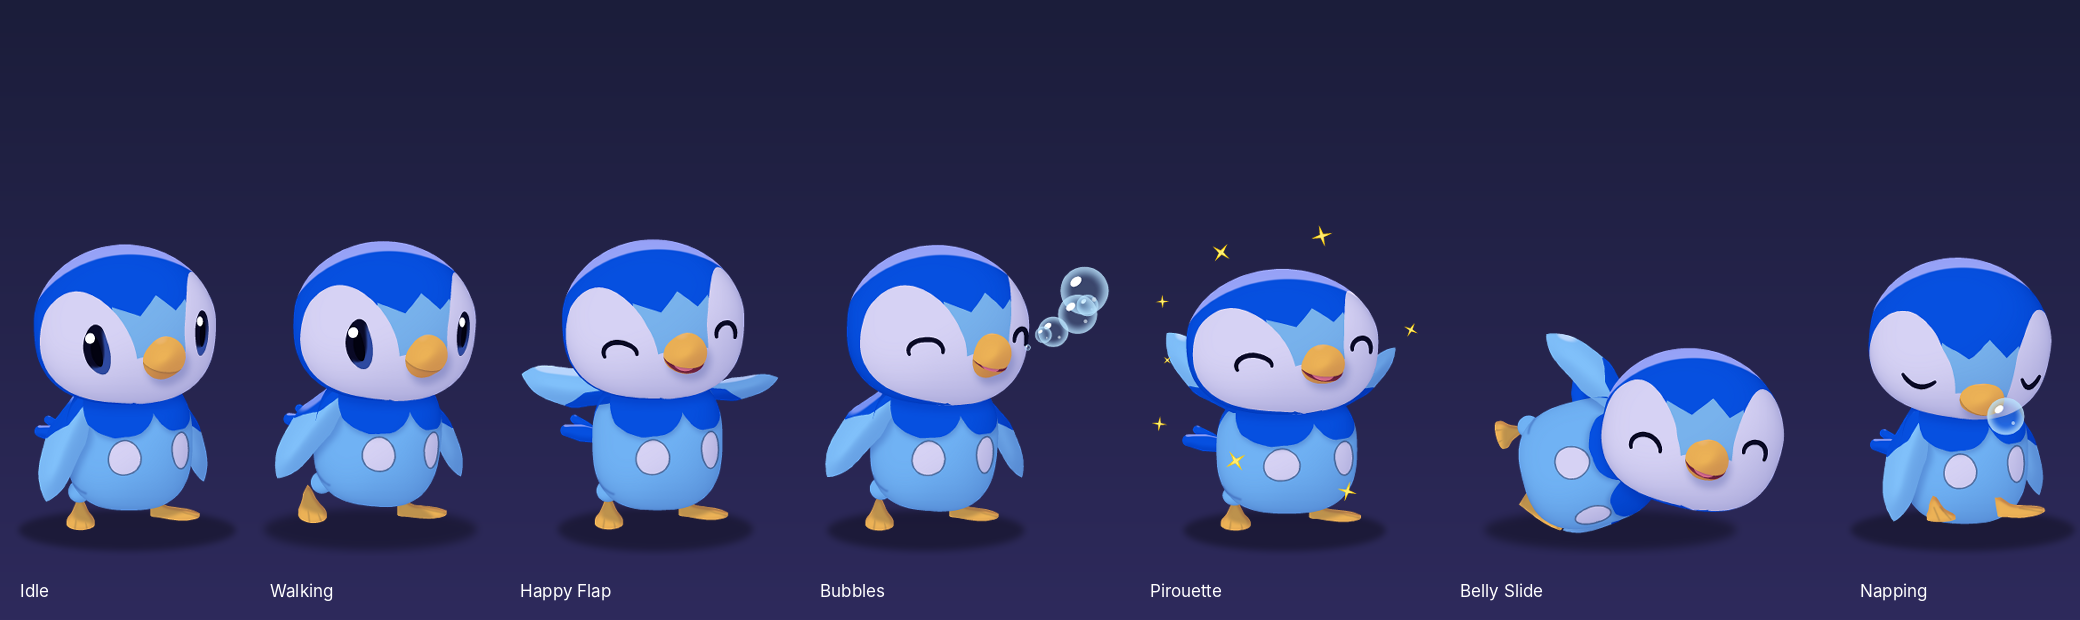
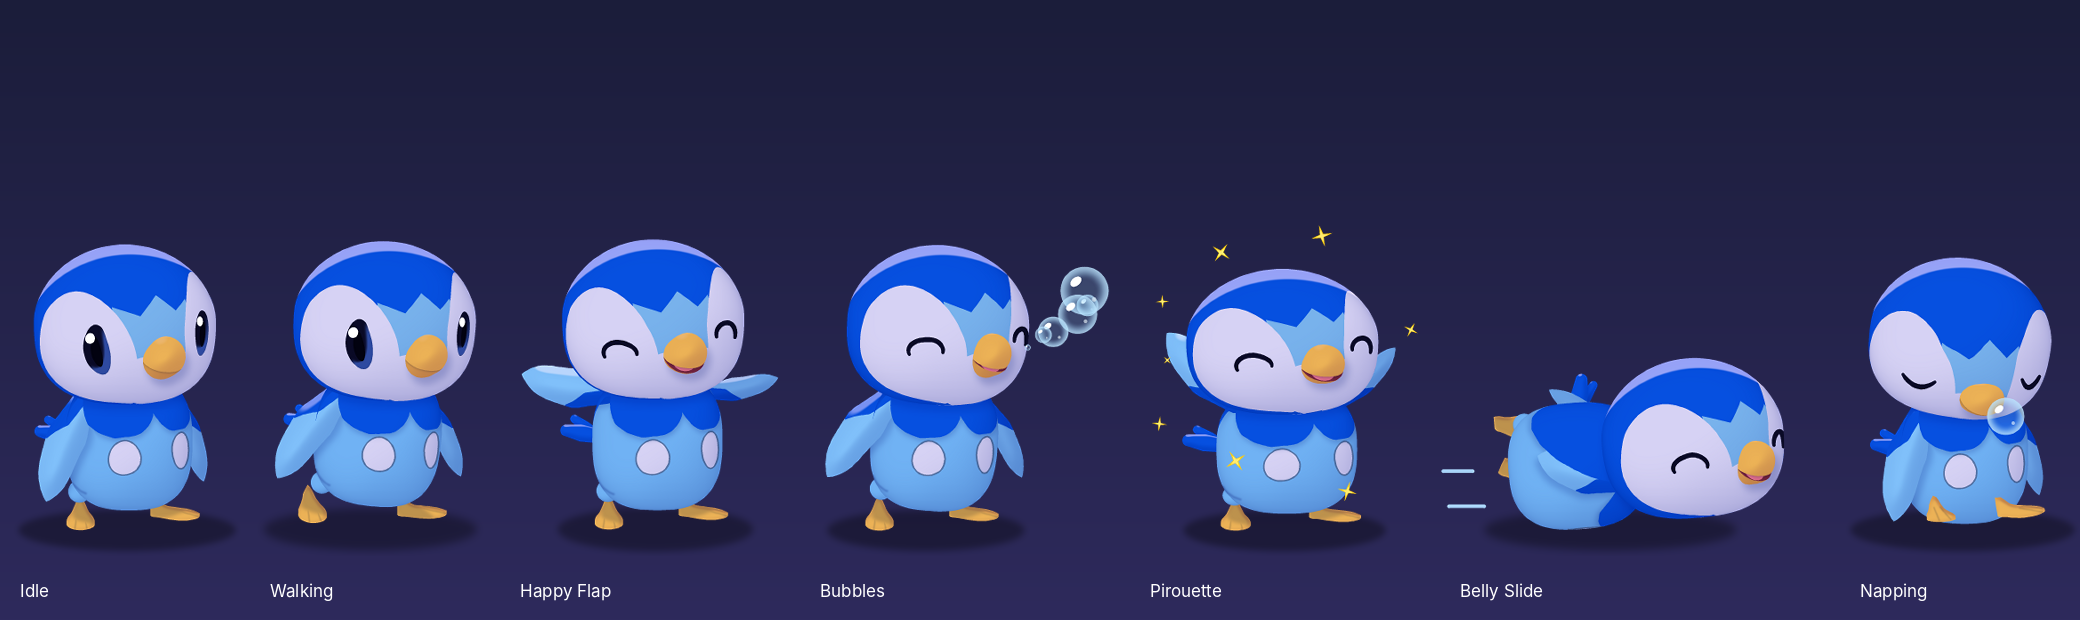
Redo Piplup's Belly Slide so that it lies on its belly
The Belly Slide tipped Piplup over sideways while it was still turned
three-quarters towards us, so it lay on its side with its belly and
buttons to the front, its head upright on top of it, a flipper in the
air and its feet splayed; and it slid backwards as it went down.

Now it hops back for a run-up, turning side on, and dives: up, over and
down on its belly, turning about the middle of its body rather than its
feet. From the side, leaning right over is lying on its front, so its
back and cape are uppermost, its head is held level and looks where it
is going, its flippers are swept back along its sides and its feet
trail behind, fluttering. It slides off head first, slowing all the
way, and stops back over the spot it started from, so it stays over its
shadow; there it pushes itself up, hops for joy and turns to face us.
Whatever part of it is lowest rests on the floor throughout, except in
its three hops, and the clip ends exactly as it began.

Every other clip is unchanged, byte for byte. The README picture's Belly
Slide is redrawn from the new clip.

Claude-Session: https://claude.ai/code/session_01SZe3gPBMU6sdVSCXShLn2j

Changed region(s): [[0.6875, 0.521, 0.875, 0.8581]]

diff --git a/characters/piplup/_source/make_frames.py b/characters/piplup/_source/make_frames.py
@@ -1231,6 +1231,18 @@ def swing(t, start, length, past=1.1):
     return 1 + (past + 1) * u ** 3 + past * u ** 2
 
 
+def arc(t, start, length):
+    """0, rising to 1 half way through `length` and back to 0 at its end: one hop."""
+    return math.sin(math.pi * (t - start) / length) if start < t < start + length else 0.0
+
+
+def about_middle(lean):
+    """How far to move the whole mate, right and down, in units, so that leaning it over by so
+    many degrees turns it about the middle of its body instead of about its feet."""
+    centre = np.array([BODY_X, BODY_Y])
+    return centre - turn(lean) @ centre
+
+
 def blink(t, at):
     """The eyes for a blink that starts at `at`: quick to shut, a little slower to open."""
     for until, lids in ((0.05, 0.55), (0.15, "closed"), (0.20, 0.6)):
@@ -1389,26 +1401,37 @@ def pirouette(t):
 
 
 def belly_slide(t):
-    """Four beats. A little jump, down on its belly, and off it slides, one way and back,
-    flippers trailing and feet in the air, as penguins do; then it pushes itself upright."""
-    down = ease(t, 0.22, 0.5) * (1 - ease(t, 1.5, 1.84))  # 0 standing, 1 flat out
-    jump = math.sin(math.pi * min(t / 0.34, 1.0)) + 0.45 * math.sin(math.pi * min(max((t - 1.5) / 0.34, 0.0), 1.0))
-    slide = math.sin(2 * math.pi * min(max((t - 0.5) / 1.0, 0.0), 1.0))
-    going = math.cos(2 * math.pi * min(max((t - 0.5) / 1.0, 0.0), 1.0)) if 0.5 < t < 1.5 else 0.0
-    kick = math.sin(2 * math.pi * 5 * t) * down
-    pose = dict(lean=q(76 * down, 0.5), tilt=q(-62 * down, 0.5), turn=q(-12 * down, 0.5), nod=q(-6 * down, 0.5),
-                bob=(q(-4 * down, 0.25), q(8 * down, 0.25)),
-                eyes=HAPPY if 0.3 < t < 1.7 else OPEN, beak=q(0.6 * down, 0.05),
-                flippers=flap(26 * down + 55 * jump * (1 - down) + 12 * kick, -10 * down + 55 * jump * (1 - down)),
-                sweep=(q(-20 * down, 1), q(-10 * down, 1)),
-                feet=((0.0, 0.0, 0.0, q(25 * down + 22 * kick, 1)), (0.0, 0.0, 0.0, q(25 * down - 22 * kick, 1))),
-                tail=q(12 * kick, 2), squash=q(0.07 * bump(t, 0.46, 0.05, 0.0, 0.14) + 0.07 * bump(t, 1.84, 0.04, 0.0, 0.08), 0.005),
-                dx=q(-140 * down + 30 * slide * down, 0.5))
-    pose["dy"] = q(-max(0.0, lowest({**DEFAULT, **pose, "fx": ()})) - 26 * jump * (1 - down), 0.5)
-    if abs(going) > 0.25:                                 # lines of speed behind it
-        way = 1 if going > 0 else -1
-        x = pose["dx"] + (-60 if way > 0 else 300)        # just clear of its feet, or of its head
-        pose["fx"] = tuple(("dash", q(x - way * (6 + 12 * k), 1), -30.0 - 40 * k, 3.6, q(-way * (18 + 8 * abs(going) - 4 * k), 1)) for k in range(2))
+    """Four beats. It hops back for a run-up, turning side on, and dives: up, over and down on
+    its belly, head up and looking where it is going. Off it slides, flippers swept back and
+    feet fluttering behind, slowing all the way, until it is back over the spot it started
+    from; there it pushes itself up, hops for joy and turns to face us again."""
+    side = ease(t, 0.02, 0.30) * (1 - ease(t, 1.42, 1.70))           # 0 three-quarters on, 1 side on
+    flat = ease(t, 0.38, 0.64) * (1 - ease(t, 1.32, 1.56))           # 0 upright, 1 flat on its belly
+    back, dive, joy = arc(t, 0.06, 0.26), arc(t, 0.36, 0.30), arc(t, 1.50, 0.22)      # its three hops
+    crouch = bump(t, 0.0, 0.06, 0.0, 0.06) + bump(t, 0.30, 0.04, 0.0, 0.08)            # before the first two
+    # Along the floor: the hop back for a run-up, a lunge into the dive, and a slide that slows
+    # all the way and ends where it started, over its shadow.
+    sliding = min(max((t - 0.64) / 0.70, 0.0), 1.0)
+    along = -100 * ease(t, 0.06, 0.32) + 40 * ease(t, 0.36, 0.64) + 60 * (1 - (1 - sliding) ** 2)
+    speed = (1 - sliding) * (0.64 <= t < 1.34)                        # 0..1 of its top speed
+    kick = math.sin(2 * math.pi * 5 * t) * flat
+    lean = 86 * flat                                                   # side on, leaning right over is lying on its front
+    mx, my = about_middle(lean)
+    pose = dict(yaw=q(64 * side, 0.5), twist=q(34 * flat, 0.5), lean=q(lean - 5 * crouch, 0.5),
+                tilt=q(-1.06 * lean, 0.5), turn=q(-48 * flat - 10 * side * (1 - flat), 0.5), bob=(q(-16 * flat, 0.25), 0.0),
+                eyes=HAPPY if 0.10 < t < 1.64 else OPEN, beak=q(0.6 * flat + 0.5 * joy, 0.05),
+                flippers=flap(8 * flat + 20 * crouch + 30 * back + 40 * joy + 6 * kick, 4 * flat + 20 * crouch + 30 * back + 40 * joy - 6 * kick),
+                sweep=(q(-35 * flat + 15 * crouch, 1), q(-35 * flat + 15 * crouch, 1)),
+                feet=tuple((0.0, q(6 * (back + dive + joy), 0.5), 0.0, q(75 * flat + way * 18 * kick, 1)) for way in (1, -1)),
+                tail=q(14 * math.sin(2 * math.pi * 3 * t) * flat, 1),
+                squash=q(0.08 * crouch - 0.07 * bump(t, 0.62, 0.04, 0.0, 0.12) + 0.07 * bump(t, 1.72, 0.03, 0.0, 0.1), 0.005),
+                dx=q(mx + along, 0.5), dy=my)
+    # Down on the floor, whatever part of it is lowest, and lifted from there by the hops.
+    pose["dy"] = q(my - lowest({**DEFAULT, **pose, "fx": ()}) - 22 * back - 30 * dive - 22 * joy, 0.5)
+    if speed > 0.2:                                       # lines of speed behind it
+        p = Piplup(pose)
+        rear = min(float(s[:, 0].min()) for s in [p.body.outline()] + [s for which in (-1, 1) for s in foot(p, which)["shapes"]])
+        pose["fx"] = tuple(("dash", q(rear - 10 - 12 * k, 1), -24.0 - 36 * k, 3.6, q(-(16 + 26 * speed - 6 * k), 1)) for k in range(2))
     return pose
 
 

diff --git a/characters/piplup/_source/README.md b/characters/piplup/_source/README.md
@@ -102,7 +102,7 @@ side.
 | `dance.webp` | During all 15 built-in dance moves, which add their own body motion: eyes shut in a smile, beak open in song, flippers flapping to the beat, feet tapping. Also listed as **Happy Flap**. |
 | `dance_bubbles.webp` | **Bubbles**, four beats: a deep breath, chest out; a stream of bubbles from its beak that drift up and away; then they burst one after another and it hops for joy. |
 | `dance_pirouette.webp` | **Pirouette**, four beats: it winds up, spins twice round on one foot with its flippers flung out, and lands with them in the air in a shower of sparkles. |
-| `dance_belly_slide.webp` | **Belly Slide**, four beats: a little jump, down on its belly, and it slides one way and back with its feet kicking in the air, then pushes itself upright. |
+| `dance_belly_slide.webp` | **Belly Slide**, four beats: a hop back for a run-up, turning side on, then a dive over onto its belly, and it slides off head first, head up, flippers swept back and feet fluttering behind, slowing until it is back over the spot it started from. There it pushes itself up, hops for joy and turns to face us. |
 | `action_take_a_bow.webp` | **Take a Bow**, an action, played once through in four seconds: it puffs out its chest, sweeps a flipper across itself and bows low, and straightens up with a hop. |
 | `drag.webp` | Being carried: eyes wide, beak open, flippers beating, feet pedalling, a nervous drop of sweat. |
 | `fall.webp` | Dropping through the air: flippers up, eyes screwed shut, feet trailing. |
